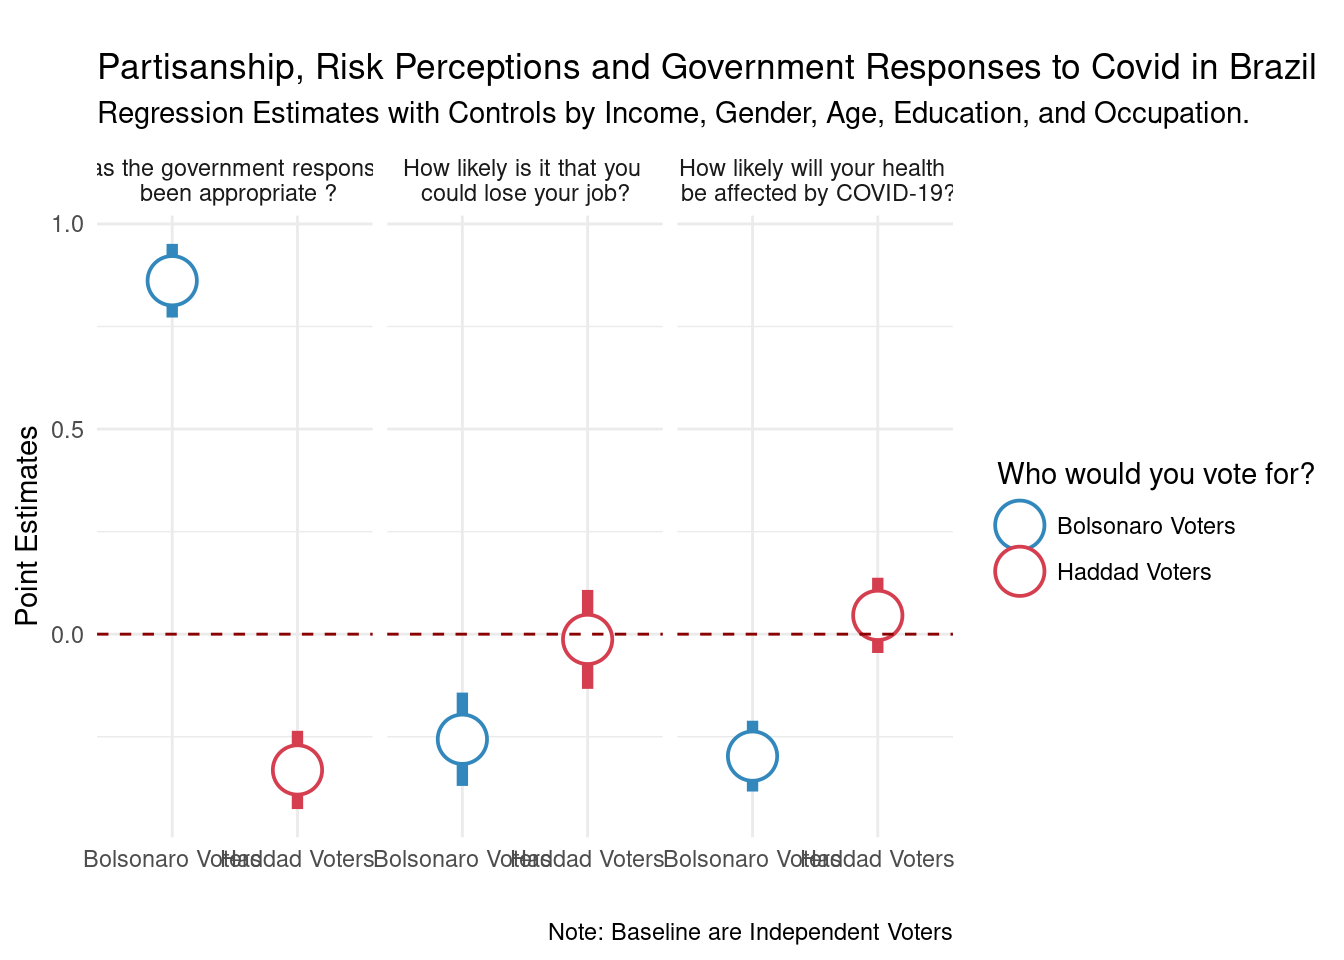
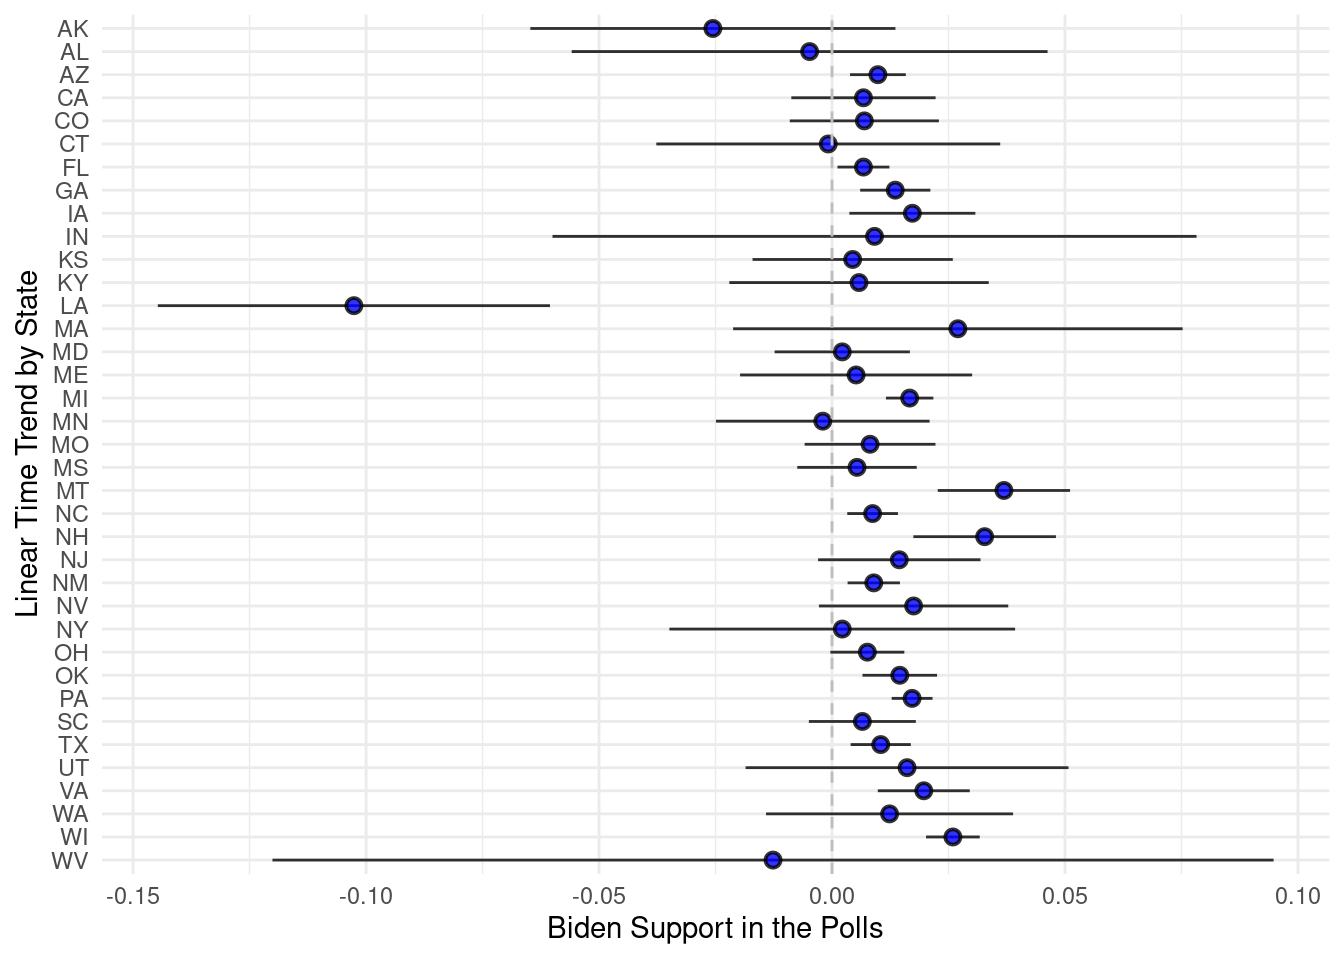
fix shape

diff --git a/content/code/_index.html b/content/code/_index.html
@@ -115,12 +115,31 @@ output:
   pivot_longer(cols=c(biden,trump), 
                names_to=&quot;Vote_Choice&quot;, 
                values_to=&quot;Vote&quot;) %&gt;%
-  mutate(end.date=as.Date(str_replace_all(end.date, &quot;/&quot;, &quot;-&quot;), format = &quot;%m-%d-%Y&quot;))
-
-national_polls &lt;- data_long %&gt;% filter(state==&quot;--&quot;)
+  mutate(end.date=as.Date(str_replace_all(end.date, &quot;/&quot;, &quot;-&quot;), format = &quot;%m-%d-%Y&quot;))</code></pre>
+<p>And now:</p>
+<pre class="r"><code>data_long</code></pre>
+<pre><code>## # A tibble: 3,228 x 17
+##    state pollster sponsor start.date end.date   entry.date.time…
+##    &lt;chr&gt; &lt;chr&gt;    &lt;chr&gt;   &lt;chr&gt;      &lt;date&gt;     &lt;chr&gt;           
+##  1 MT    Change … &lt;NA&gt;    10/29/2020 2020-11-02 11/2/2020 23:42…
+##  2 MT    Change … &lt;NA&gt;    10/29/2020 2020-11-02 11/2/2020 23:42…
+##  3 ME    Change … &lt;NA&gt;    10/29/2020 2020-11-02 11/2/2020 23:42…
+##  4 ME    Change … &lt;NA&gt;    10/29/2020 2020-11-02 11/2/2020 23:42…
+##  5 IA    Change … &lt;NA&gt;    10/29/2020 2020-11-01 11/2/2020 23:42…
+##  6 IA    Change … &lt;NA&gt;    10/29/2020 2020-11-01 11/2/2020 23:42…
+##  7 WI    Change … &lt;NA&gt;    10/29/2020 2020-11-01 11/2/2020 23:42…
+##  8 WI    Change … &lt;NA&gt;    10/29/2020 2020-11-01 11/2/2020 23:42…
+##  9 PA    Change … &lt;NA&gt;    10/29/2020 2020-11-01 11/2/2020 23:42…
+## 10 PA    Change … &lt;NA&gt;    10/29/2020 2020-11-01 11/2/2020 23:42…
+## # … with 3,218 more rows, and 11 more variables: number.of.observations &lt;dbl&gt;,
+## #   population &lt;chr&gt;, mode &lt;chr&gt;, biden_margin &lt;dbl&gt;, other &lt;dbl&gt;,
+## #   undecided &lt;dbl&gt;, url &lt;chr&gt;, include &lt;lgl&gt;, notes &lt;chr&gt;, Vote_Choice &lt;chr&gt;,
+## #   Vote &lt;dbl&gt;</code></pre>
+<p>Let’s now separate the data for our later use</p>
+<pre class="r"><code>national_polls &lt;- data_long %&gt;% filter(state==&quot;--&quot;)
 state_polls &lt;- data_long %&gt;% filter(state!=&quot;--&quot;)
 swing_states &lt;- c(&quot;PA&quot;, &quot;FL&quot;, &quot;GA&quot;, &quot;AZ&quot;, &quot;IO&quot;, &quot;OH&quot;, &quot;TX&quot;, &quot;MI&quot;, &quot;WI&quot;)</code></pre>
-<p>We have three inputs here:</p>
+<p>We have three inputs in <code>pivot_longer</code>:</p>
 <ul>
 <li><code>cols</code>: the variables you want to convert from wide to long.</li>
 <li><code>names_to</code>: new variable for the columns names from the wide data.</li>
@@ -141,28 +160,50 @@ swing_states &lt;- c(&quot;PA&quot;, &quot;FL&quot;, &quot;GA&quot;, &quot;AZ&qu
 <pre class="r"><code>ggplot(data=national_polls, # the data step
        aes(x=end.date, y=Vote)) + # the map step
 geom_point()</code></pre>
-<p><img src="/code/_index_files/figure-html/unnamed-chunk-6-1.png" width="672" /></p>
+<p><img src="/code/_index_files/figure-html/unnamed-chunk-8-1.png" width="672" /></p>
 <p>Bit of a mess. But we will make it prettier.</p>
 <div id="which-aesthetics-i-can-use" class="section level3">
 <h3>Which Aesthetics I can use?</h3>
 <p><img src="/images/aes.png" /></p>
 </div>
 <div id="some-aesthethics-examples" class="section level3">
-<h3>Some Aesthethics Examples</h3>
+<h3>Some Aesthethics Examples:</h3>
 <div id="color" class="section level4">
 <h4>Color</h4>
 <pre class="r"><code>ggplot(data=national_polls, # the data step
        aes(x=end.date, y=Vote, 
            color=Vote_Choice)) + # the map step
 geom_point()</code></pre>
-<p><img src="/code/_index_files/figure-html/unnamed-chunk-7-1.png" width="672" />
-#### Shape</p>
+<p><img src="/code/_index_files/figure-html/unnamed-chunk-9-1.png" width="672" /></p>
+</div>
+</div>
+<div id="shape" class="section level3">
+<h3>Shape</h3>
 <pre class="r"><code>ggplot(data=national_polls, # the data step
        aes(x=end.date, y=Vote,
            color=Vote_Choice,
            shape=Vote_Choice)) + # the map step
 geom_point() </code></pre>
-<p><img src="/code/_index_files/figure-html/unnamed-chunk-8-1.png" width="672" /></p>
+<p><img src="/code/_index_files/figure-html/unnamed-chunk-10-1.png" width="672" /></p>
+<div id="alpha" class="section level4">
+<h4>Alpha</h4>
+<pre class="r"><code>ggplot(data=national_polls, # the data step
+       aes(x=end.date, y=Vote,
+           color=Vote_Choice,
+           shape=Vote_Choice, 
+           alpha=end.date)) + # the map step
+geom_point() </code></pre>
+<p><img src="/code/_index_files/figure-html/unnamed-chunk-11-1.png" width="672" />
+#### Linetype</p>
+<pre class="r"><code>ggplot(data=national_polls, # the data step
+       aes(x=end.date, y=Vote,
+           color=Vote_Choice,
+           shape=Vote_Choice, 
+           alpha=end.date, 
+           linetype=Vote_Choice)) + # the map step
+geom_smooth()</code></pre>
+<p><img src="/code/_index_files/figure-html/unnamed-chunk-12-1.png" width="672" /></p>
+<p>Infinite possibilities to show variations on your dataset and maps your variables to visuals. We will go over some examples of more complete visualizations. Now let’s see some examples of <code>geoms</code> you might consider.</p>
 </div>
 </div>
 <div id="some-geom-examples" class="section level3">
@@ -173,19 +214,19 @@ geom_point() </code></pre>
        aes(x=end.date, y=Vote, color=Vote_Choice, fill=Vote_Choice)) + 
 geom_point(alpha=.2) +
 geom_smooth()</code></pre>
-<p><img src="/code/_index_files/figure-html/unnamed-chunk-9-1.png" width="672" /></p>
+<p><img src="/code/_index_files/figure-html/unnamed-chunk-13-1.png" width="672" /></p>
 </div>
 <div id="showing-some-density" class="section level4">
 <h4>Showing some density</h4>
 <pre class="r"><code>ggplot(data=national_polls,
        aes(x=end.date)) +
 geom_density(fill=&quot;steelblue&quot;)</code></pre>
-<p><img src="/code/_index_files/figure-html/unnamed-chunk-10-1.png" width="672" /></p>
-<pre class="r"><code># ANother one
+<p><img src="/code/_index_files/figure-html/unnamed-chunk-14-1.png" width="672" /></p>
+<pre class="r"><code># Another one using the facet_wrap
 ggplot(data=state_polls %&gt;% filter(state%in%swing_states)) +
   geom_density(aes(x=end.date, fill=state), alpha=.3) +
   facet_wrap(~state, ncol=3)</code></pre>
-<p><img src="/code/_index_files/figure-html/unnamed-chunk-10-2.png" width="672" /></p>
+<p><img src="/code/_index_files/figure-html/unnamed-chunk-14-2.png" width="672" /></p>
 </div>
 <div id="bars" class="section level4">
 <h4>Bars</h4>
@@ -193,7 +234,7 @@ ggplot(data=state_polls %&gt;% filter(state%in%swing_states)) +
        aes(x=end.date, fill=mode)) +
 geom_bar() +
 scale_fill_brewer(palette = &quot;Set3&quot;)</code></pre>
-<p><img src="/code/_index_files/figure-html/unnamed-chunk-11-1.png" width="672" /></p>
+<p><img src="/code/_index_files/figure-html/unnamed-chunk-15-1.png" width="672" /></p>
 </div>
 <div id="box-plot" class="section level4">
 <h4>Box Plot</h4>
@@ -202,7 +243,7 @@ ggplot(state_polls %&gt;% filter(state%in%swing_states),
        aes(x=Vote,y=fct_rev(state), fill=Vote_Choice)) +
   geom_boxplot() +
   scale_fill_manual(values=c(&quot;biden&quot;=&quot;blue&quot;,&quot;trump&quot;=&quot;red&quot;)) </code></pre>
-<p><img src="/code/_index_files/figure-html/unnamed-chunk-12-1.png" width="672" /></p>
+<p><img src="/code/_index_files/figure-html/unnamed-chunk-16-1.png" width="672" /></p>
 <p>A full set of geoms can be found <a href="http://github.com/rstudio/cheatsheets/raw/master/data-visualization-2.1.pdf">here</a></p>
 </div>
 </div>
@@ -215,6 +256,7 @@ ggplot(state_polls %&gt;% filter(state%in%swing_states),
 <li><code>scale_fill_manual</code>: To create your own discrete set of fill.</li>
 <li><code>scale_colour_brewer()</code>: Change the Pallet of Colours</li>
 </ul>
+<p>From now on, I will present more complete graphs, that would be similar to one I would add in a research paper.</p>
 <pre class="r"><code>p &lt;- ggplot(data=national_polls,
        aes(x=end.date, y=Vote, color=Vote_Choice, shape=Vote_Choice, fill=Vote_Choice)) + 
 geom_point(alpha=.2) +
@@ -230,7 +272,7 @@ labs(x = &quot;End of the Poll&quot;, y = &quot;Results&quot;,
          subtitle = &quot;&quot;,
          caption = &quot;Source: The Economist&quot;)  
 p</code></pre>
-<p><img src="/code/_index_files/figure-html/unnamed-chunk-13-1.png" width="672" /></p>
+<p><img src="/code/_index_files/figure-html/unnamed-chunk-17-1.png" width="672" /></p>
 </div>
 </div>
 <div id="embellishment-as-an-consistent-workflow" class="section level2">
@@ -255,12 +297,12 @@ my_theme &lt;- theme(text = element_text(family = my_font, color = &quot;#22211d
                   legend.title = element_text(size=14),
                   plot.title = element_text(size = 22, face = &quot;bold&quot;, family=my_font),
                   plot.subtitle = element_text(size=16, family=my_font),
-                  axis.title= element_text(size=22),
+                  axis.title= element_text(size=14),
                   
-                  axis.text = element_text(size=14, family=my_font),
+                  axis.text = element_text(size=12, family=my_font),
                   axis.title.x = element_text(hjust=1),
                   strip.text = element_text(family = my_font, color = &quot;#22211d&quot;,
-                                            size = 13, face=&quot;italic&quot;))</code></pre>
+                                            size = 10, face=&quot;italic&quot;))</code></pre>
 <p>The last function sets your R environment to use your newly created theme in all your plots. Lets see this in our old graph:</p>
 <pre class="r"><code># This sets up for all your plots
 theme_set(theme_bw() + my_theme)</code></pre>
@@ -268,22 +310,22 @@ theme_set(theme_bw() + my_theme)</code></pre>
 <pre class="r"><code>p +
   theme_base() +
   my_theme</code></pre>
-<p><img src="/code/_index_files/figure-html/unnamed-chunk-16-1.png" width="672" /></p>
+<p><img src="/code/_index_files/figure-html/unnamed-chunk-20-1.png" width="672" /></p>
 <p>Another option is to use one of the pre-set themes in R</p>
 <pre class="r"><code>library(ggthemes)
 library(hrbrthemes)
  p + 
   theme_minimal()</code></pre>
-<p><img src="/code/_index_files/figure-html/unnamed-chunk-17-1.png" width="672" /></p>
+<p><img src="/code/_index_files/figure-html/unnamed-chunk-21-1.png" width="672" /></p>
 <pre class="r"><code> p + 
   theme_economist()</code></pre>
-<p><img src="/code/_index_files/figure-html/unnamed-chunk-17-2.png" width="672" /></p>
+<p><img src="/code/_index_files/figure-html/unnamed-chunk-21-2.png" width="672" /></p>
 <pre class="r"><code>p + 
   theme_fivethirtyeight()</code></pre>
-<p><img src="/code/_index_files/figure-html/unnamed-chunk-17-3.png" width="672" /></p>
+<p><img src="/code/_index_files/figure-html/unnamed-chunk-21-3.png" width="672" /></p>
 <pre class="r"><code>p + 
   theme_ipsum()</code></pre>
-<p><img src="/code/_index_files/figure-html/unnamed-chunk-17-4.png" width="672" /></p>
+<p><img src="/code/_index_files/figure-html/unnamed-chunk-21-4.png" width="672" /></p>
 </div>
 <div id="modelling-with-broom" class="section level2">
 <h2>Modelling with Broom</h2>
@@ -318,17 +360,7 @@ results</code></pre>
 ##   &lt;chr&gt;          &lt;dbl&gt;     &lt;dbl&gt;     &lt;dbl&gt;    &lt;dbl&gt;
 ## 1 (Intercept)  46.7      0.318       147.  0.      
 ## 2 days          0.0164   0.00156      10.5 2.06e-23</code></pre>
-</div>
-<div id="plot" class="section level3">
-<h3>Plot</h3>
-<p>Not a nice plot, but just an example.</p>
-<pre class="r"><code>results %&gt;% 
-  mutate(lb=estimate - 1.96*std.error, 
-         up=estimate+ 1.96*std.error) %&gt;%
-  ggplot(data=., aes(y=estimate, ymin=lb, ymax=up, x=term)) +
-  geom_pointrange() +
-  coord_flip()</code></pre>
-<p><img src="/code/_index_files/figure-html/unnamed-chunk-20-1.png" width="672" /></p>
+<p>You can plot these quantities directly. The graph for you paper is basically ready.</p>
 </div>
 <div id="predicted-values-with-augment" class="section level3">
 <h3>Predicted Values with Augment</h3>
@@ -355,7 +387,7 @@ ggplot(data=.) +
   geom_ribbon(aes(y=.fitted, ymin=lb, ymax=ub, x=days), alpha=.2) +
   geom_line(aes(y=.fitted, x=days), color=&quot;blue&quot;) +
   geom_point(aes(y = Vote, x=days), alpha=.2) </code></pre>
-<p><img src="/code/_index_files/figure-html/unnamed-chunk-21-1.png" width="672" /></p>
+<p><img src="/code/_index_files/figure-html/unnamed-chunk-24-1.png" width="672" /></p>
 </div>
 </div>
 <div id="running-multiple-models" class="section level2">
@@ -436,12 +468,12 @@ to_plot &lt;- nested_data %&gt;%
               drop_na()
 # graph
 ggplot(to_plot, aes(x=fct_rev(state),y=estimate, ymin=lb, ymax=ub)) +
-  geom_pointrange(shape=21, fill=&quot;tomato2&quot;, color=&quot;black&quot;, alpha=.8) +
+  geom_pointrange(shape=21, fill=&quot;blue&quot;, color=&quot;black&quot;, alpha=.8) +
   geom_hline(yintercept = 0, linetype=&quot;dashed&quot;, color=&quot;gray&quot;) +
   coord_flip() +
   theme_minimal() +
   labs(x = &quot;Linear Time Trend by State&quot;,  y= &quot;Biden Support in the Polls&quot;)  </code></pre>
-<p><img src="/code/_index_files/figure-html/unnamed-chunk-25-1.png" width="672" /></p>
+<p><img src="/code/_index_files/figure-html/unnamed-chunk-28-1.png" width="672" /></p>
 </div>
 <div id="case-study-partisanship-covid-and-risk-perceptions-in-brazil." class="section level2">
 <h2>Case Study: Partisanship, Covid and Risk Perceptions in Brazil.</h2>
@@ -506,7 +538,7 @@ ggplot(to_plot, aes(y=estimate, x=labels_iv,
   theme_bw() +
   theme(strip.text = element_text(size=7),
         axis.text.x = element_blank()) </code></pre>
-<p><img src="/code/_index_files/figure-html/unnamed-chunk-29-1.png" width="672" /></p>
+<p><img src="/code/_index_files/figure-html/unnamed-chunk-32-1.png" width="672" /></p>
 </div>
 </div>
 </div>
